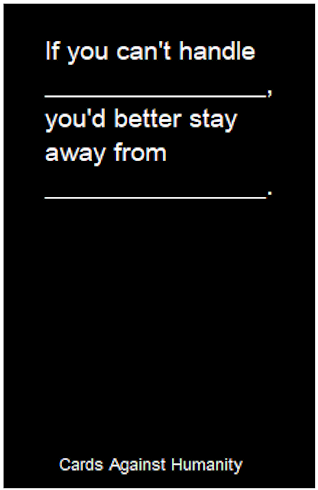
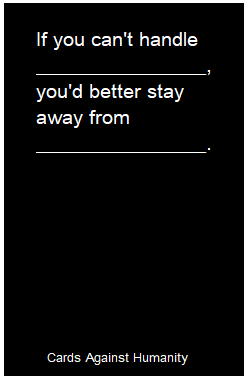
Main for today

diff --git a/jSpace-Project/src/common/src/main/gui/MainGUI.java b/jSpace-Project/src/common/src/main/gui/MainGUI.java
@@ -305,33 +305,29 @@ public class MainGUI extends JFrame implements ActionListener {
 		mainLobby.setLayout(new BorderLayout()); //Default layout
 		mainLobby.setBackground(Color.WHITE);
 
+
 		//Create buttons
-		//		Dimension btnsize1 = new Dimension(200,80);
-		//		Dimension btnsize2 = new Dimension(150,80);
+		Dimension btnsize2 = new Dimension(160,70);
 
 		// Create game button
 		b1 = new JButton("Create Game");
+		b1.setPreferredSize(btnsize2);
+		b1.setBackground(Color.BLACK);
 		b1.setForeground(Color.WHITE);
-		b1.setBackground(Color.black);
 		b1.addActionListener(this);
 		b1.setAlignmentX(Component.CENTER_ALIGNMENT);
-		b1.setMinimumSize(btnsize5);
-		b1.setMaximumSize(btnsize5);
 		b1.setFont(new Font("calibri",1,21));
 		b1.setBorderPainted(false);
 		b1.setFocusPainted(false);
 		b1.setEnabled(true);
 
-
-
 		// Sign out button
 		b2 = new JButton("Sign Out");
+		b2.setPreferredSize(btnsize2);
+		b2.setBackground(Color.BLACK);
 		b2.setForeground(Color.WHITE);
-		b2.setBackground(Color.black);
 		b2.addActionListener(this);
 		b2.setAlignmentX(Component.CENTER_ALIGNMENT);
-		b2.setMinimumSize(btnsize5);
-		b2.setMaximumSize(btnsize5);
 		b2.setFont(new Font("calibri",1,21));
 		b2.setBorderPainted(false);
 		b2.setFocusPainted(false);
@@ -339,12 +335,11 @@ public class MainGUI extends JFrame implements ActionListener {
 
 		// Join game button
 		b3 = new JButton("Join Game");
+		b3.setPreferredSize(btnsize2);
+		b3.setBackground(Color.BLACK);
 		b3.setForeground(Color.WHITE);
-		b3.setBackground(Color.black);
 		b3.addActionListener(this);
 		b3.setAlignmentX(Component.CENTER_ALIGNMENT);
-		b3.setMinimumSize(btnsize5);
-		b3.setMaximumSize(btnsize5);
 		b3.setFont(new Font("calibri",1,21));
 		b3.setBorderPainted(false);
 		b3.setFocusPainted(false);
@@ -352,12 +347,11 @@ public class MainGUI extends JFrame implements ActionListener {
 
 		// Refresh button
 		b4 = new JButton("Refresh");
+		b4.setPreferredSize(btnsize2);
+		b4.setBackground(Color.BLACK);
 		b4.setForeground(Color.WHITE);
-		b4.setBackground(Color.black);
 		b4.addActionListener(this);
 		b4.setAlignmentX(Component.CENTER_ALIGNMENT);
-		b4.setMinimumSize(btnsize5);
-		b4.setMaximumSize(btnsize5);
 		b4.setFont(new Font("calibri",1,21));
 		b4.setBorderPainted(false);
 		b4.setFocusPainted(false);
@@ -372,8 +366,8 @@ public class MainGUI extends JFrame implements ActionListener {
 		// Implementing pictures for white cards and black cards as JLabel
 		l2 = new JLabel();
 		l3 = new JLabel();
-		l2.setIcon(new ImageIcon(new ImageIcon("BCLobby.png").getImage().getScaledInstance(250, 376, Image.SCALE_DEFAULT)));
-		l3.setIcon(new ImageIcon(new ImageIcon("WCLobby.png").getImage().getScaledInstance(250, 376, Image.SCALE_DEFAULT)));
+		l2.setIcon(new ImageIcon(new ImageIcon("BCLobby.png").getImage().getScaledInstance(249, 381, Image.SCALE_DEFAULT)));
+		l3.setIcon(new ImageIcon(new ImageIcon("WCLobby.png").getImage().getScaledInstance(306, 556, Image.SCALE_DEFAULT)));
 		l2.setAlignmentX(Component.CENTER_ALIGNMENT);
 		l3.setAlignmentX(Component.CENTER_ALIGNMENT);
 
@@ -387,13 +381,17 @@ public class MainGUI extends JFrame implements ActionListener {
 		//Creates panel for buttons
 		JPanel p1 = new JPanel();
 
-		p1.setLayout(new FlowLayout(FlowLayout.CENTER));
+		FlowLayout flow = new FlowLayout(FlowLayout.CENTER);
+		p1.setLayout(flow);
 		p1.setBackground(Color.WHITE);
 		p1.add(b2);
 		p1.add(b4);
+		flow.setHgap(100);
 		p1.add(b3);
 		p1.add(b1);
-//		p1.add(Box.createRigidArea(new Dimension(850,200)));
+		p1.add(Box.createRigidArea(new Dimension(0,200)));
+
+		
 
 
 		mainLobby.add(p1, BorderLayout.SOUTH);
@@ -407,12 +405,13 @@ public class MainGUI extends JFrame implements ActionListener {
 		// Panel for Title label
 		p2.setLayout(new BoxLayout(p2, BoxLayout.PAGE_AXIS));
 		p2.setBackground(Color.WHITE);
+		p2.add(Box.createRigidArea(new Dimension(50, 0)));
 		p2.add(l1);
 
 		// Panel for Black Card image
 		p3.setLayout(new BoxLayout(p3, BoxLayout.LINE_AXIS));
 		p3.setBackground(Color.WHITE);
-		
+
 		p3.add(Box.createRigidArea(new Dimension(50, 0)));
 		p3.add(l2);
 		p3.add(Box.createRigidArea(new Dimension(50, 0)));
@@ -422,7 +421,7 @@ public class MainGUI extends JFrame implements ActionListener {
 		JPanel p4 = new JPanel();
 		p4.setLayout(new BoxLayout(p4, BoxLayout.LINE_AXIS));
 		p4.setBackground(Color.WHITE);
-		
+
 		p4.add(Box.createRigidArea(new Dimension(50, 0)));
 		p4.add(l3);
 
@@ -474,7 +473,7 @@ public class MainGUI extends JFrame implements ActionListener {
 
 			System.out.println(name);
 			System.out.println(IP);
-			
+
 			mainLogin.setVisible(false);
 
 			mainLobby.setVisible(true);
